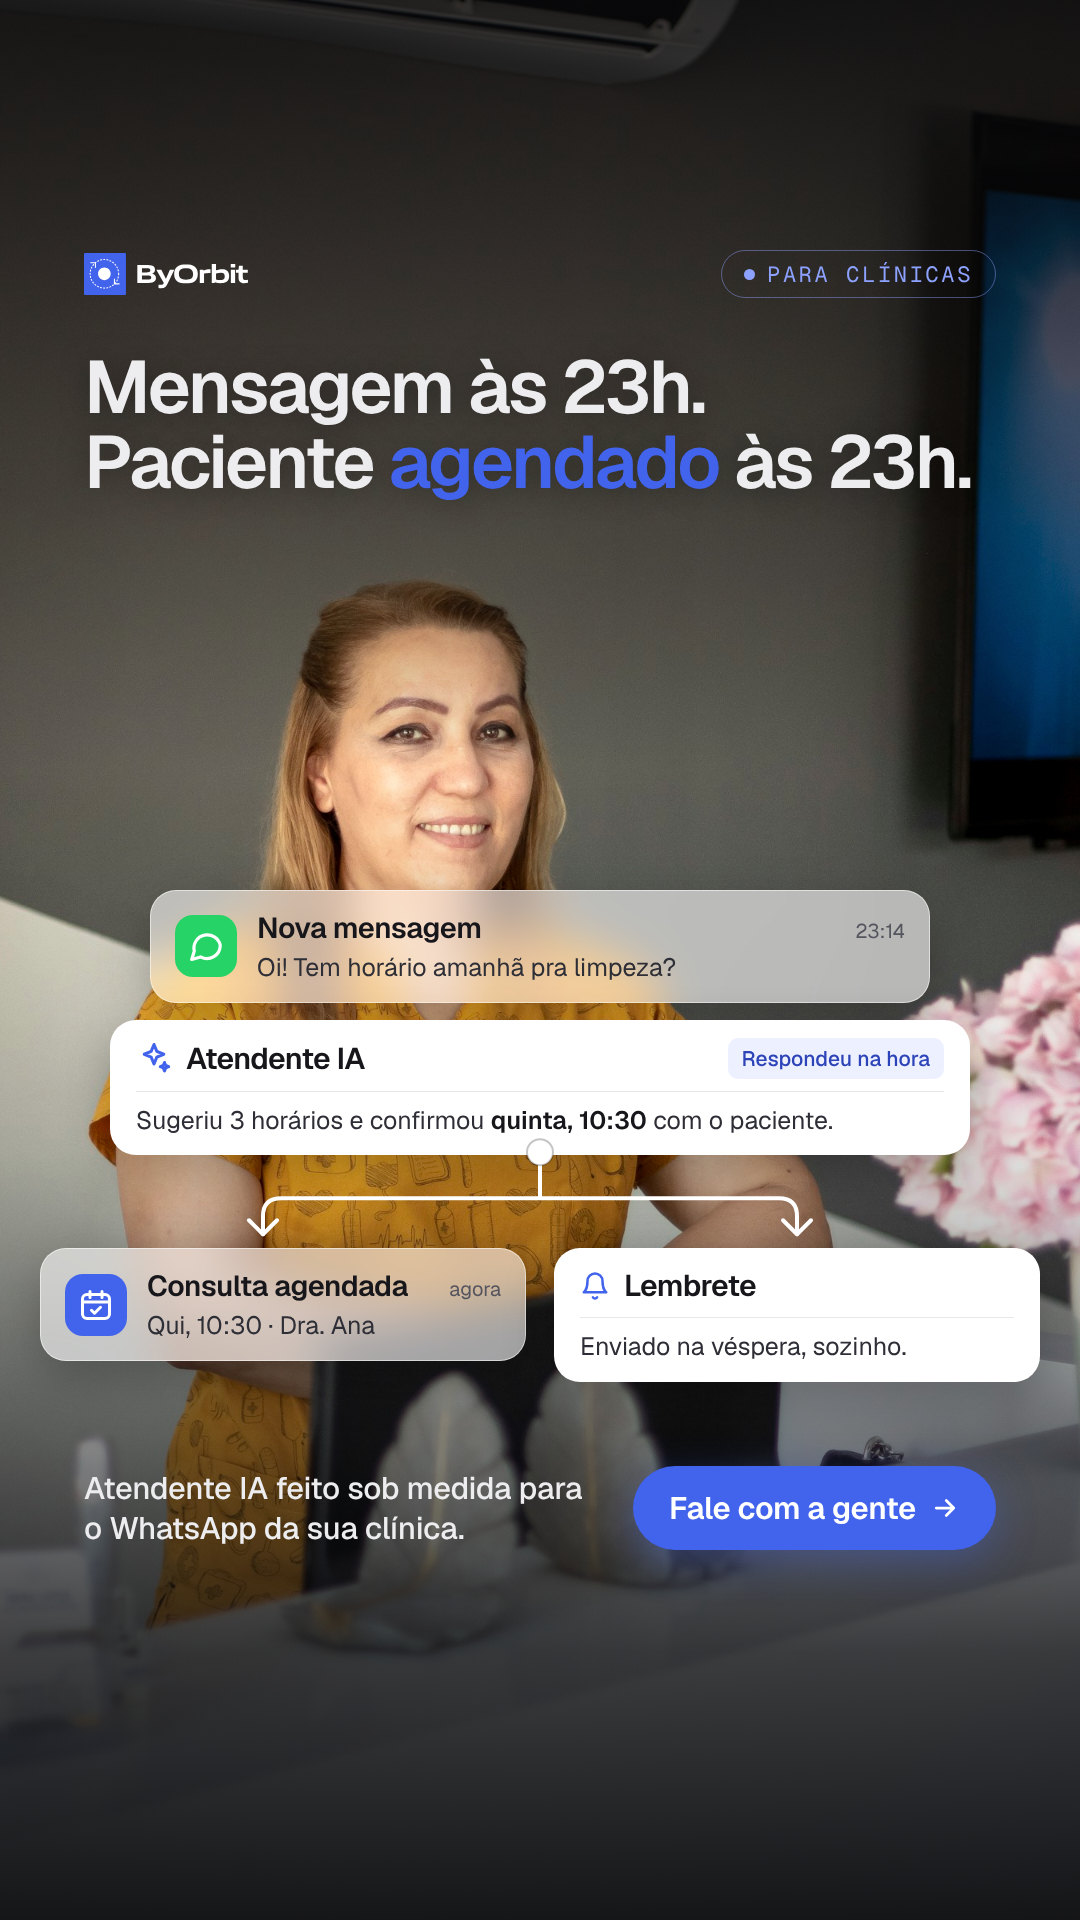
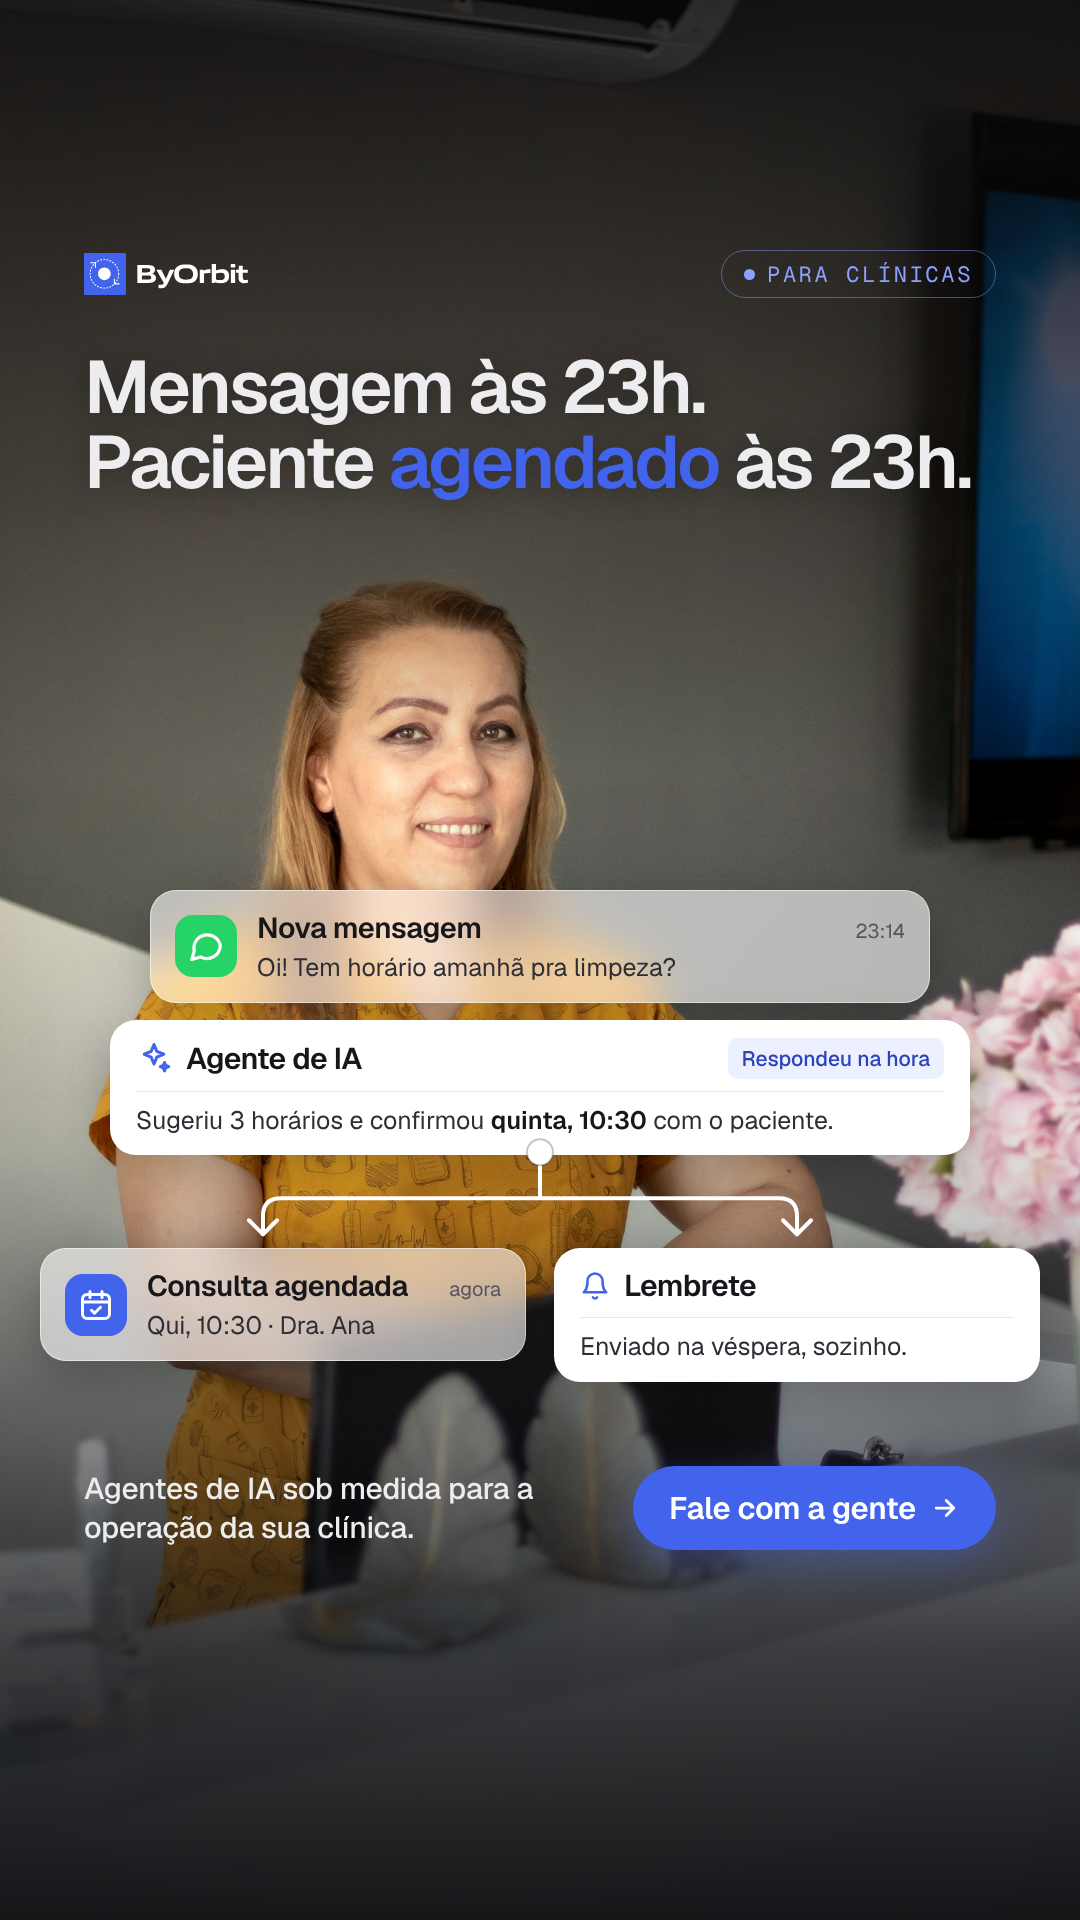
Anúncios: linguagem de agentes de IA sob medida, criativo 'cada clínica é única'
Claude-Session: https://claude.ai/code/session_01X3h8uQFdpQaWbAFAworFQd

Changed region(s): [[0.0917, 0.75, 0.55, 0.8125], [0.1833, 0.5312, 0.3361, 0.5625]]

diff --git a/kit/ads.html b/kit/ads.html
@@ -33,7 +33,7 @@ h1,h2{font-weight:600;letter-spacing:-0.035em;text-wrap:balance}
 /* barra de chamada */
 .ctabar{position:absolute;left:var(--m);right:var(--m);bottom:64px;z-index:4;display:flex;align-items:center;justify-content:space-between;gap:28px;padding-top:28px;border-top:1px solid var(--line)}
 .story .ctabar{bottom:370px;border-top:none;padding-top:0}
-.ctabar .txt{font-size:31px;line-height:1.3;font-weight:500;color:var(--fg);letter-spacing:-0.01em;max-width:520px}
+.ctabar .txt{font-size:30px;line-height:1.3;font-weight:500;color:var(--fg);letter-spacing:-0.01em;max-width:540px}
 .btn{flex:none;display:inline-flex;align-items:center;gap:14px;height:84px;padding:0 36px;border-radius:999px;background:var(--blue);color:#fff;font-size:31px;font-weight:600;letter-spacing:-0.01em;box-shadow:0 12px 40px rgba(66,99,235,.35)}
 .fade{position:absolute;left:0;right:0;bottom:0;height:420px;z-index:2;background:linear-gradient(180deg,rgba(9,9,11,0) 0%,rgba(9,9,11,.92) 55%,var(--bg) 78%)}
 .story .fade{display:none}
@@ -84,7 +84,7 @@ h1,h2{font-weight:600;letter-spacing:-0.035em;text-wrap:balance}
 /* statement */
 .stbody{position:absolute;left:var(--m);right:var(--m);top:250px;z-index:3}
 .story .stbody{top:520px}
-.stbody h1{font-size:104px;line-height:1}
+.stbody h1{font-size:96px;line-height:1}
 .checks{list-style:none;margin-top:60px;display:grid;gap:30px}
 .checks li{display:flex;align-items:center;gap:22px;font-size:40px;font-weight:500;letter-spacing:-0.01em}
 .price{margin-top:64px;display:inline-flex;flex-direction:column;gap:6px;padding:26px 34px;border-radius:24px;border:1px solid rgba(141,162,255,.35);background:rgba(66,99,235,.08)}

diff --git a/README.md b/README.md
@@ -11,7 +11,7 @@ As imagens em `posts/` são públicas de propósito: o Metricool publica a parti
 
 Nada em `anuncios/` é publicado automaticamente: o robô só lê `posts/`.
 
-- `kit/ads.html`: template de criativos. Tipos: `scene` (foto + cards flutuantes com fluxo), `chat` (conversa no celular), `split` (antes/depois), `statement` (benefícios)
+- `kit/ads.html`: template de criativos. Tipos: `scene` (foto + cards flutuantes com fluxo), `chat` (conversa no celular), `split` (antes/depois), `statement` (mensagem + benefícios)
 - Formatos: `feed` 1080x1350 (4:5) e `story` 1080x1920 (9:16, respeitando as zonas seguras). Faça sempre os dois.
 - Render: `python3 -I kit/render_ads.py kit anuncios/<campanha>.json anuncios/`
 - Fotos: edite `anuncios/fotos.json` (`{"nome": {"query": "...", "orientation": "portrait", "n": 4}}`) e dê push; a Action `fotos-anuncios.yml` busca no Unsplash e salva em `anuncios/img/<nome>-N.jpg`, com créditos em `anuncios/img/creditos.json`
